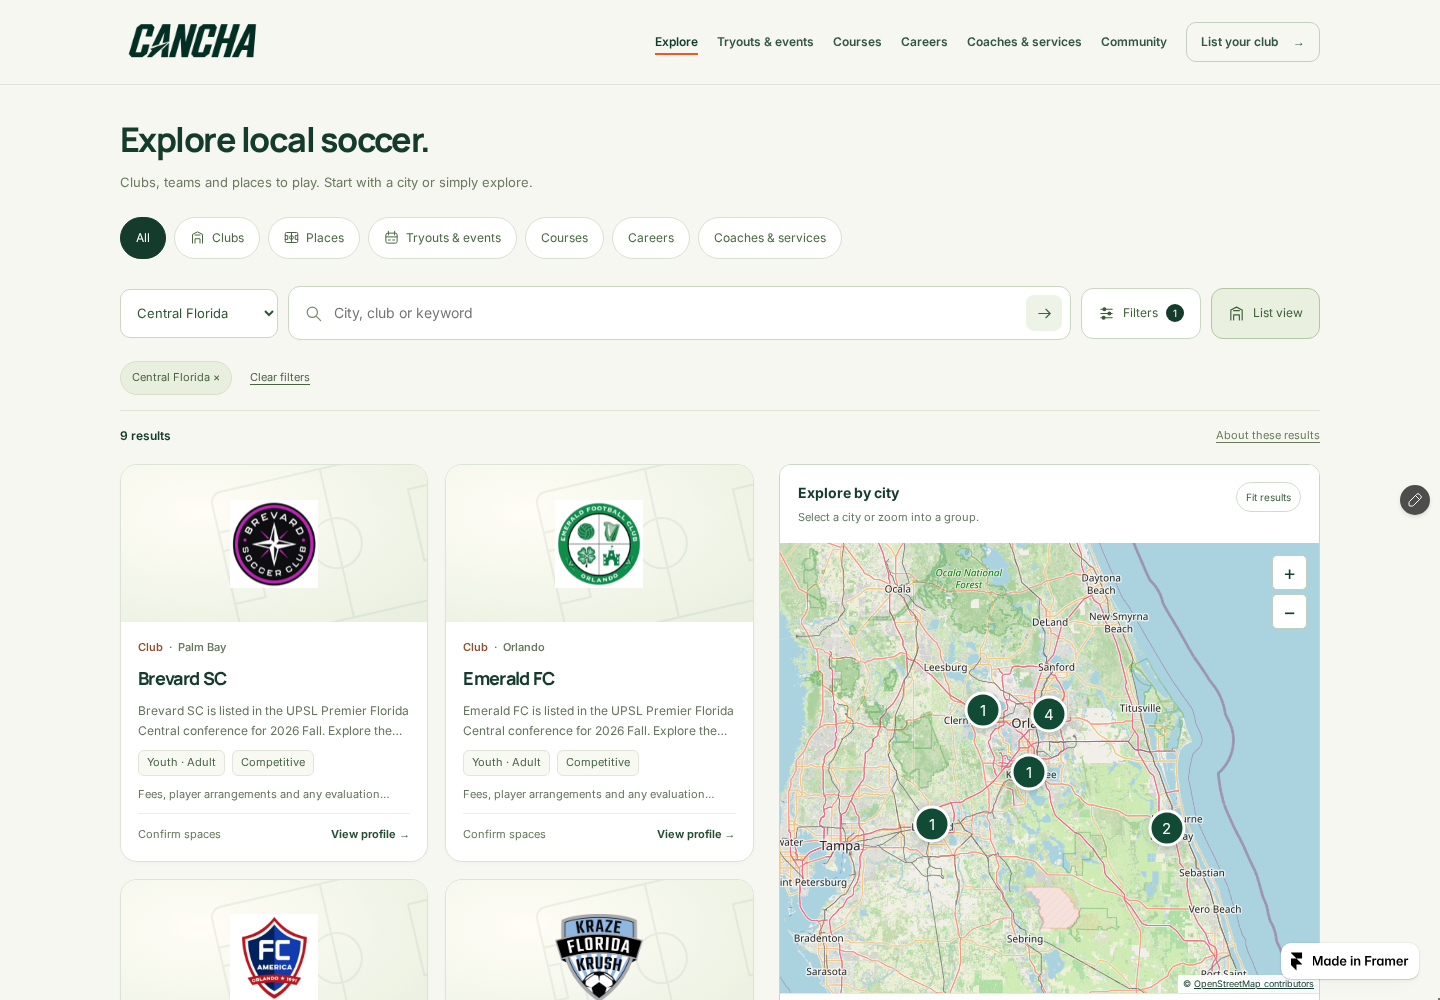
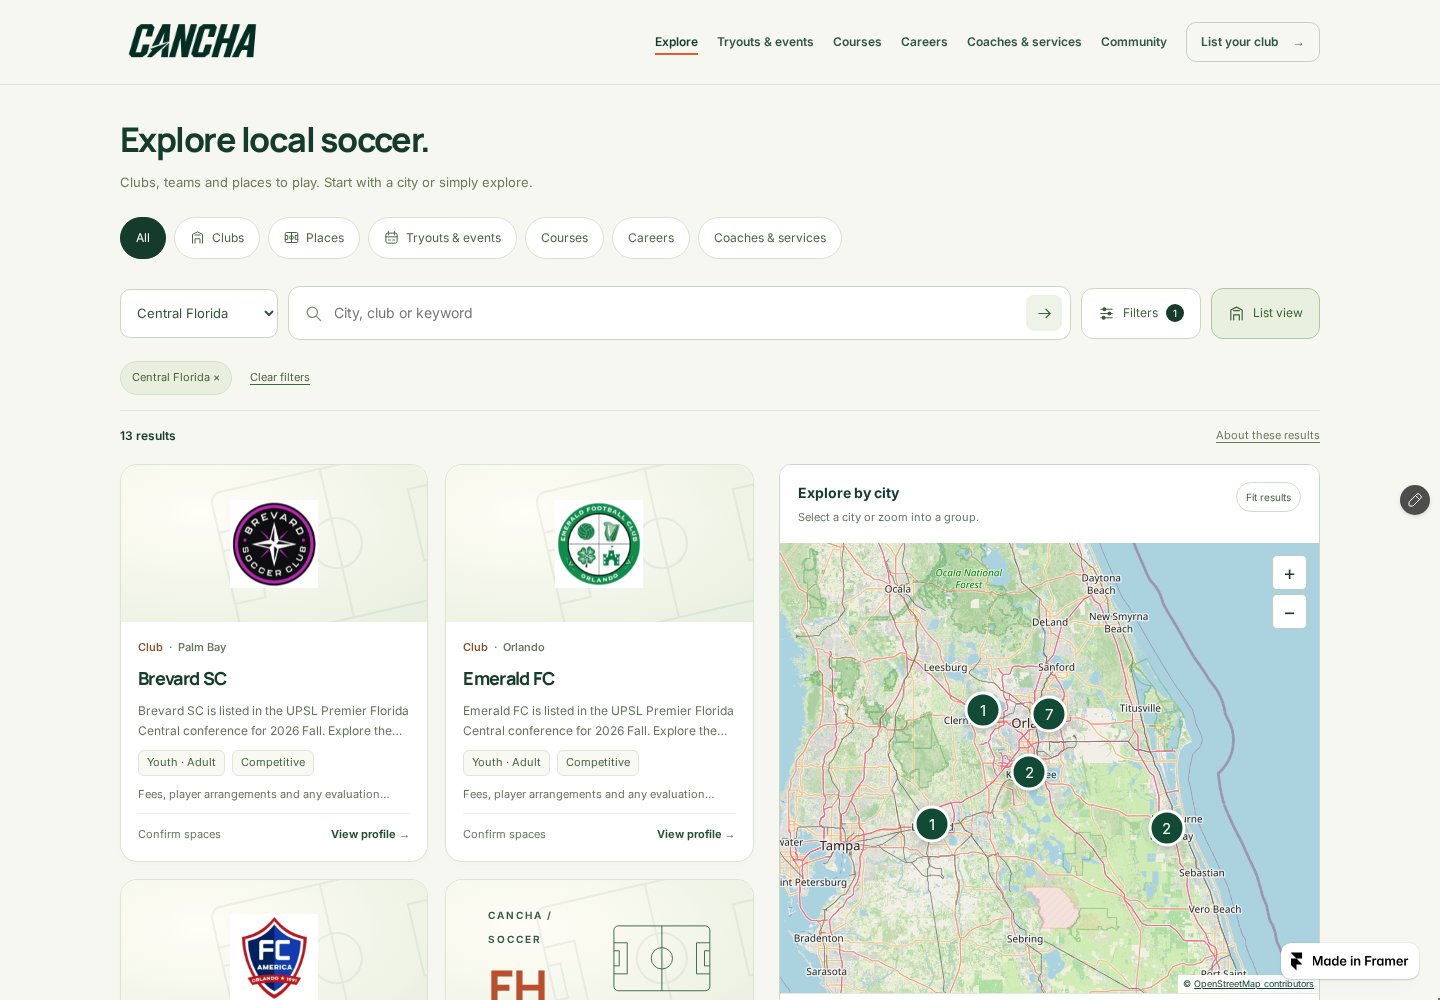
Record verified daily club publication and refreshed Instagram queue

Changed region(s): [[0.3438, 0.899, 0.5, 1.0], [0.0938, 0.434, 0.125, 0.465]]

diff --git a/docs/florida-expansion.md b/docs/florida-expansion.md
@@ -65,3 +65,15 @@ The first real preparation run, [39303802039](https://github.com/titodv41/cancha
 An independent adapter now follows the official FYSA page’s own public EmbedDirectory data endpoint. The inspected directory contained 223 members; 116 records had supported South/Central Florida city mappings. These are candidates, not 116 new verified programs. Each addition also requires a matching club website; repurposed casino domains, unsafe links, ambiguous identity, duplicate names/aliases and unsupported locations are held. Canonical HTTPS redirects are allowed only between the same host and its www variant. Administrative street addresses and individual contacts are not copied as playing venues. Identifying logos are used when established; otherwise the original Cancha artwork remains visible. Unattended writes still require the encrypted backup and remain capped at ten per run.
 
 All 90 distinct stored image URLs across 125 records decoded successfully. A live simulated image failure also displayed the intended original Cancha fallback. No private form was submitted by these checks.
+
+### Successful unattended delivery
+
+[Run 39305855840](https://github.com/titodv41/cancha-automation/actions/runs/39305855840) completed the repaired preparation path on October 19. UPSL returned HTTP 403 from GitHub; the independent FYSA source remained available. After an acknowledged encrypted backup, the runner added **ten** website-identity-checked members and published production at **18:51:53 UTC**. It preserved existing club records and returned no automation blockers. Four ambiguous/blocked website candidates were held instead of being published.
+
+The new batch includes Sunrise Soccer Club, Sol SC Florida, Coral Gables Youth Center, FC Highland, Miami Lakes United, Elite Soccer Academy (FL), Tropical Soccer, Orlando City Soccer School Lake Nona, Jupiter United and Nona Soccer Academy. Eight identifying logos were established; two use the original Cancha visual fallback. No administrative street addresses or personal contacts were copied into these profiles.
+
+The live catalog now has **61 club/place profiles, 53 play opportunities and 16 career listings**, alongside the separate eleven learning resources and two providers. Today's additions total **41 club profiles, three programs and two providers**. The importer reports **97 further candidates** awaiting checks, not 97 verified openings. Club profiles are not counted toward the separate 200-current-opportunity target.
+
+The published site passed the additional Florida browser suite again at all three widths after this automated batch. All **98 distinct stored image URLs across 133 records** decoded successfully; venue maps and the designed fallbacks cover records without stored logos. One final SDK image-audit attempt returned a transient authorization error; the subsequent official read-only connection check succeeded, and the final media verification used the reviewed public CDN URLs. No credential change was needed.
+
+The private queue confirms the backend and standing plan enabled, @wearecancha connected, 44 encrypted CMS backup references and no uncertain publication. The refreshed `cancha-local-discovery` post is Approved for **October 19 at 22:00 UTC / 18:00 New York**. Both photographic designs are Drafts ready for the daily selector. No new Instagram publication is claimed before its actual Meta receipt.
